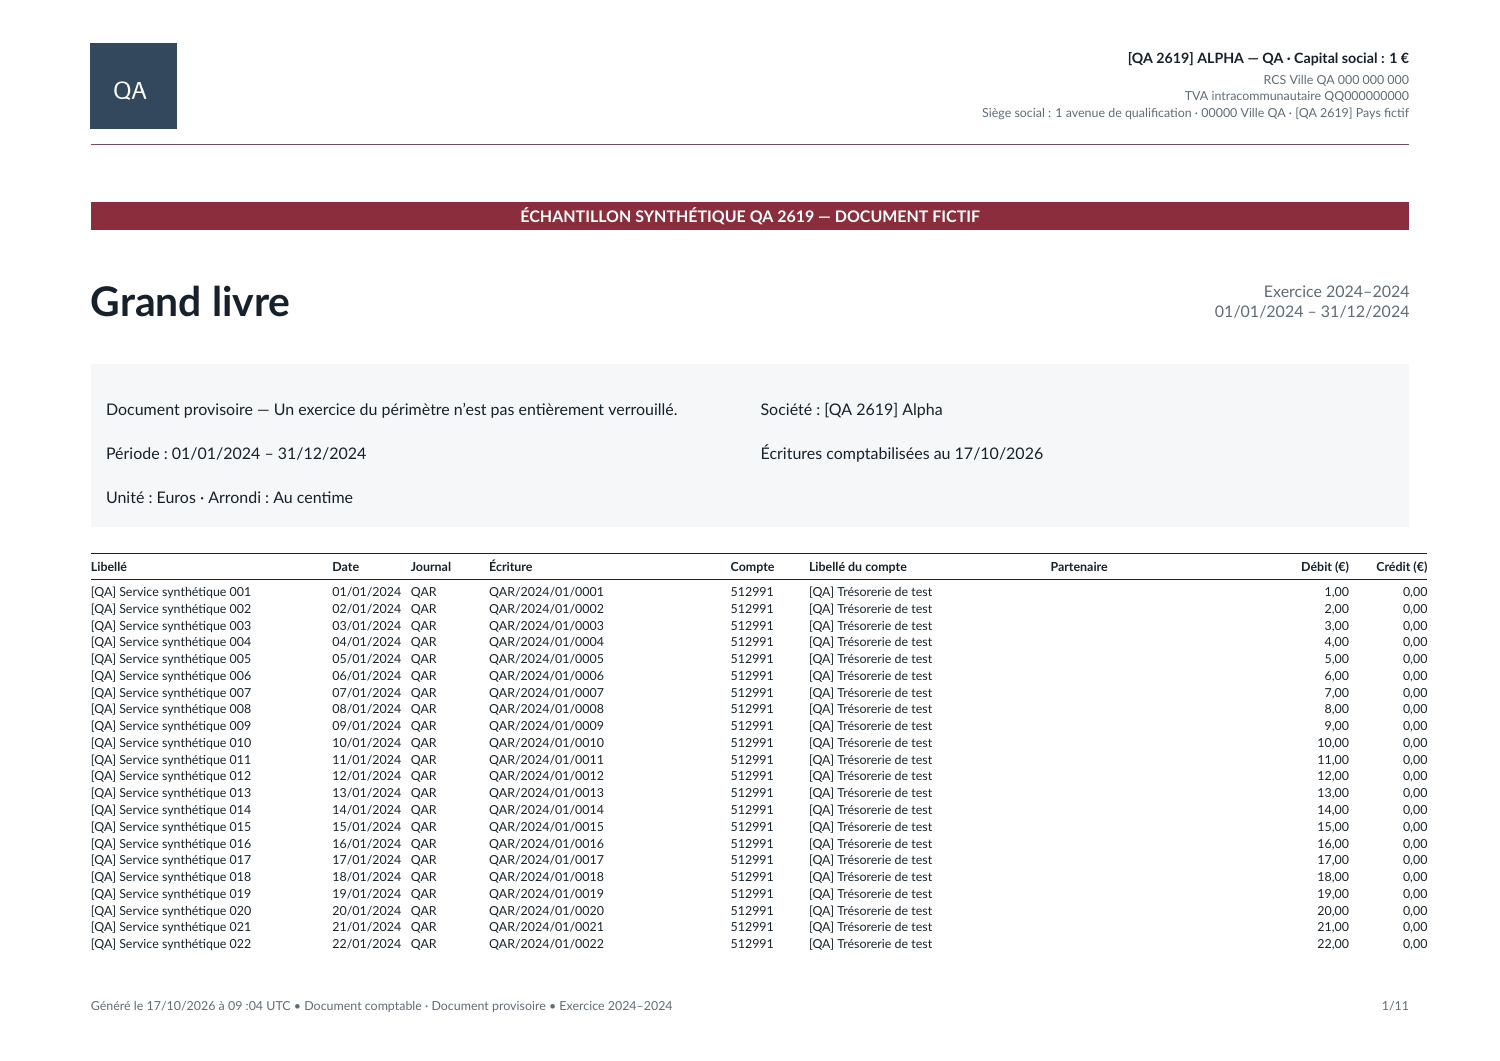
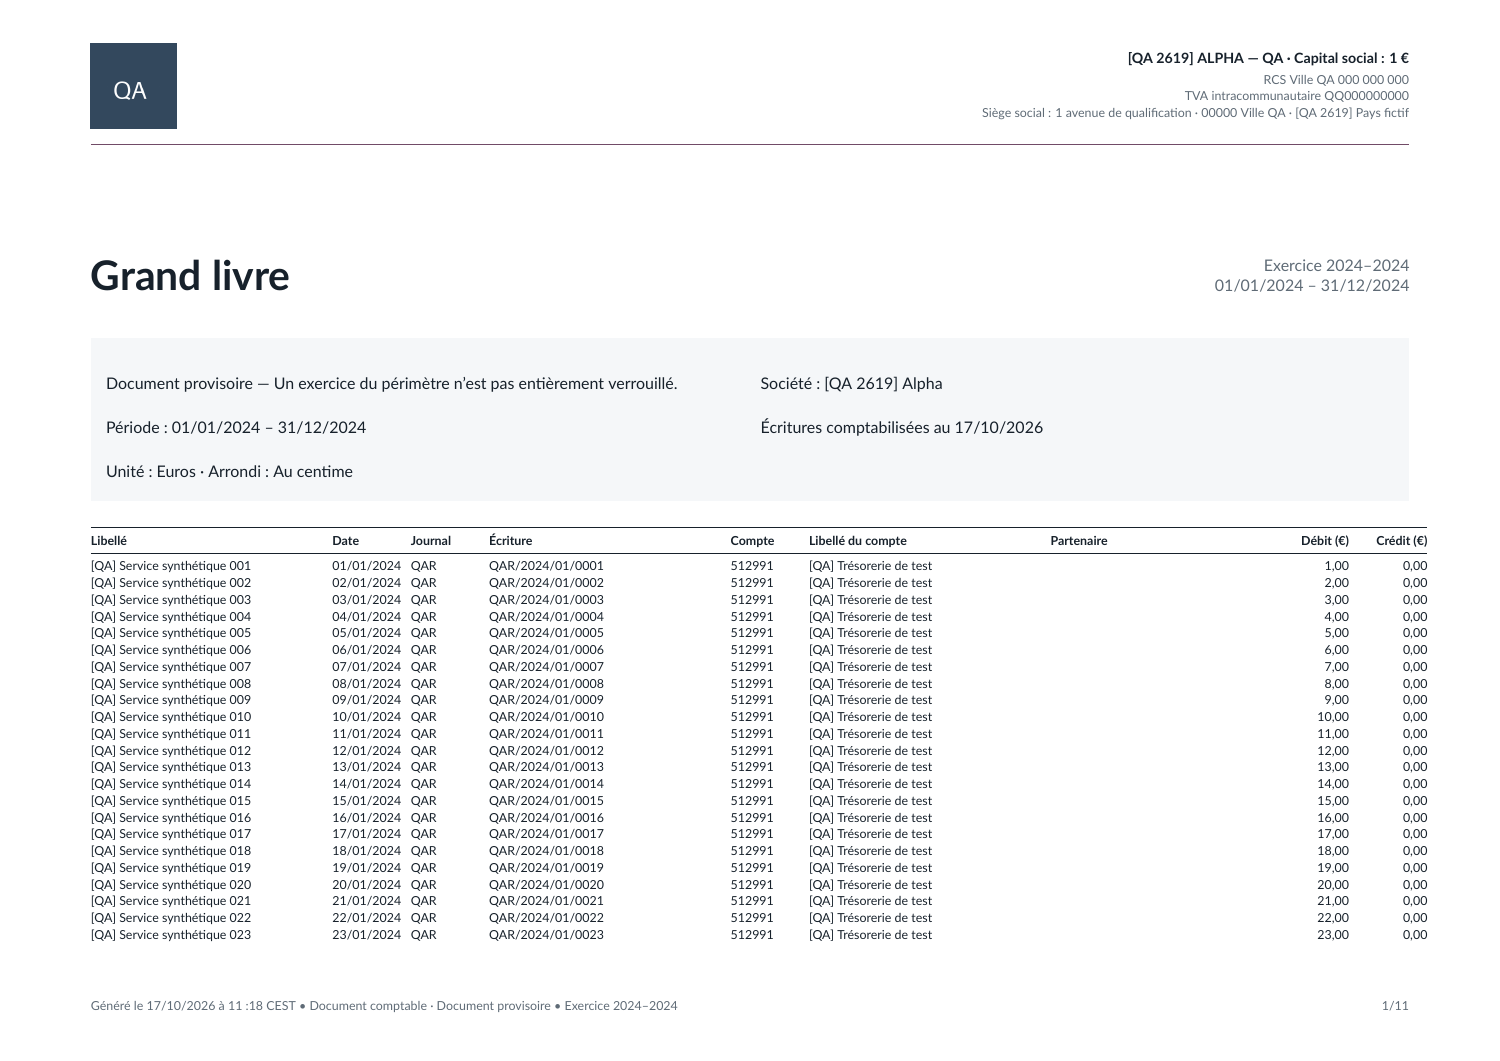
docs(accounting): show final revision browser export evidence
Replace the illustrative pre-format captures with independently inspected native browser exports from product revision b7e61982 and the existing pinned renderer. Captions identify invented company/ledger/square-logo fixtures and ordinary browser context without the optional qualification banner.

Validation:
- Lead checked exact PNG hashes, pixels and all metadata chunks; actual browser open/locked PDF text confirms every page footer and expected label status.

AI-generated commit

diff --git a/docs/product/screenshots/report-provisional/README.md b/docs/product/screenshots/report-provisional/README.md
@@ -1,21 +1,25 @@
 # Provisional accounting PDF captures
 
-Captured 17 October 2026 from the native accounting export and pinned renderer
-`a01385982eb406947bd1e312a1cefd7fe4636943`, using invented QA 2619 companies,
-legal identity, square logo and ledger. The implementation matches this PR;
-source-only comma formatting and policy resealing followed these captures.
-They illustrate the output; native export, text and preservation checks prove
-the behavior independently. The document-brand priority remains a separate
-pending decision. No existing company logo or historical file was replaced.
+Captured 17 October 2026 through ordinary native browser login, company
+selection, Generate Export and download, against product revision
+`b7e61982b77dbcf8e99960115377140f6310074a` and pinned renderer
+`a01385982eb406947bd1e312a1cefd7fe4636943`. The companies, legal identity,
+square logo and ledger are invented QA 2619 fixtures. Native company-logo
+precedence is retained; the document-brand choice remains pending.
 
-- `final-accountant-ledger-open-page1.png`: ordinary accountant, open fiscal
-  exercise; the preamble gives the provisional reason and the footer repeats it.
-- `final-accountant-ledger-open-page4.png`: continuation of the same eleven-page
-  ledger; the footer retains Document provisoire.
-- `final-reader-trial-locked-page1.png`: native read-only accountant, fiscal
-  exercise covered by its global lock; no generated provisional label.
-  This does not certify the report.
+These are ordinary browser exports, so the optional shell qualification banner
+is absent. They illustrate the final tested product revision; native tests,
+PDF text checks and upgrade preservation separately prove behavior.
 
-The exact image bytes and all PNG chunks were independently inspected before
-publication. Earlier registry-selector probes and candidate-renderer previews
-remain private and are not these captures.
+- `final-accountant-ledger-open-page1.png`: ordinary accountant, open exercise;
+  the preamble gives the provisional reason and the footer repeats it.
+- `final-accountant-ledger-open-page4.png`: continuation of that eleven-page
+  browser-generated ledger; the footer retains Document provisoire.
+- `final-reader-trial-locked-page1.png`: native read-only accountant after
+  switching to the locked company; no generated provisional label. This does
+  not certify the report.
+
+The lead personally inspected the pixels and all PNG chunks of these exact
+bytes before publication. These replace the earlier pre-format illustrative
+captures. Registry-selector probes and candidate-renderer previews stay private.
+No live company logo or historical file was replaced.
